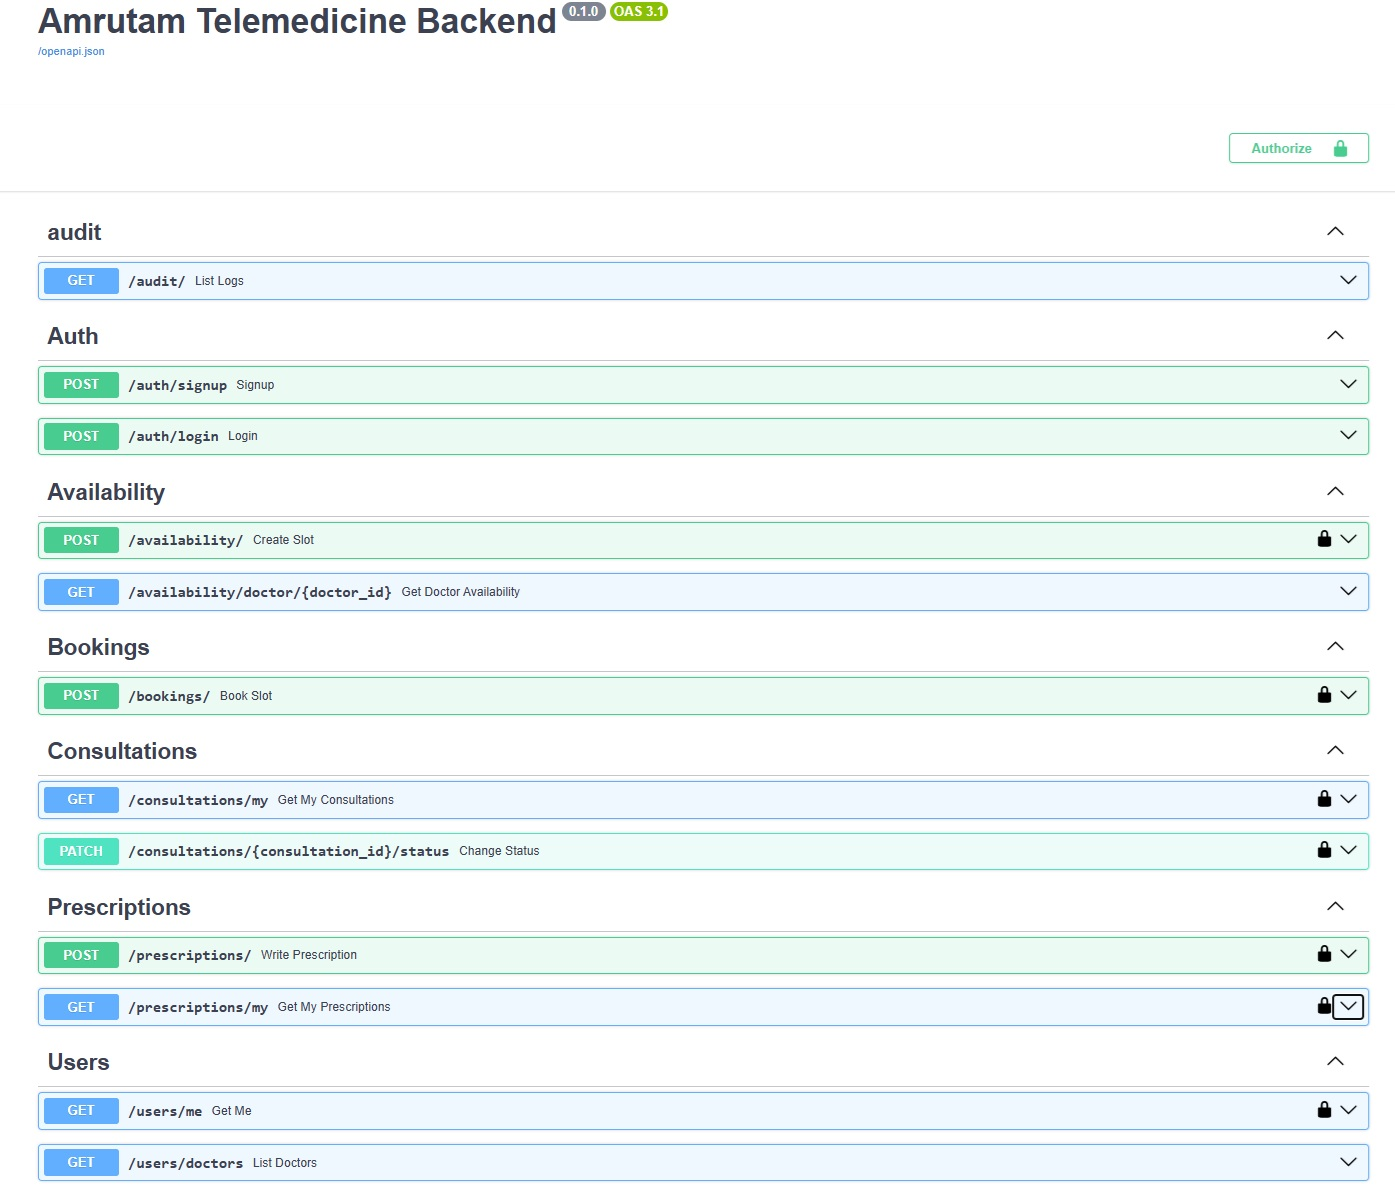
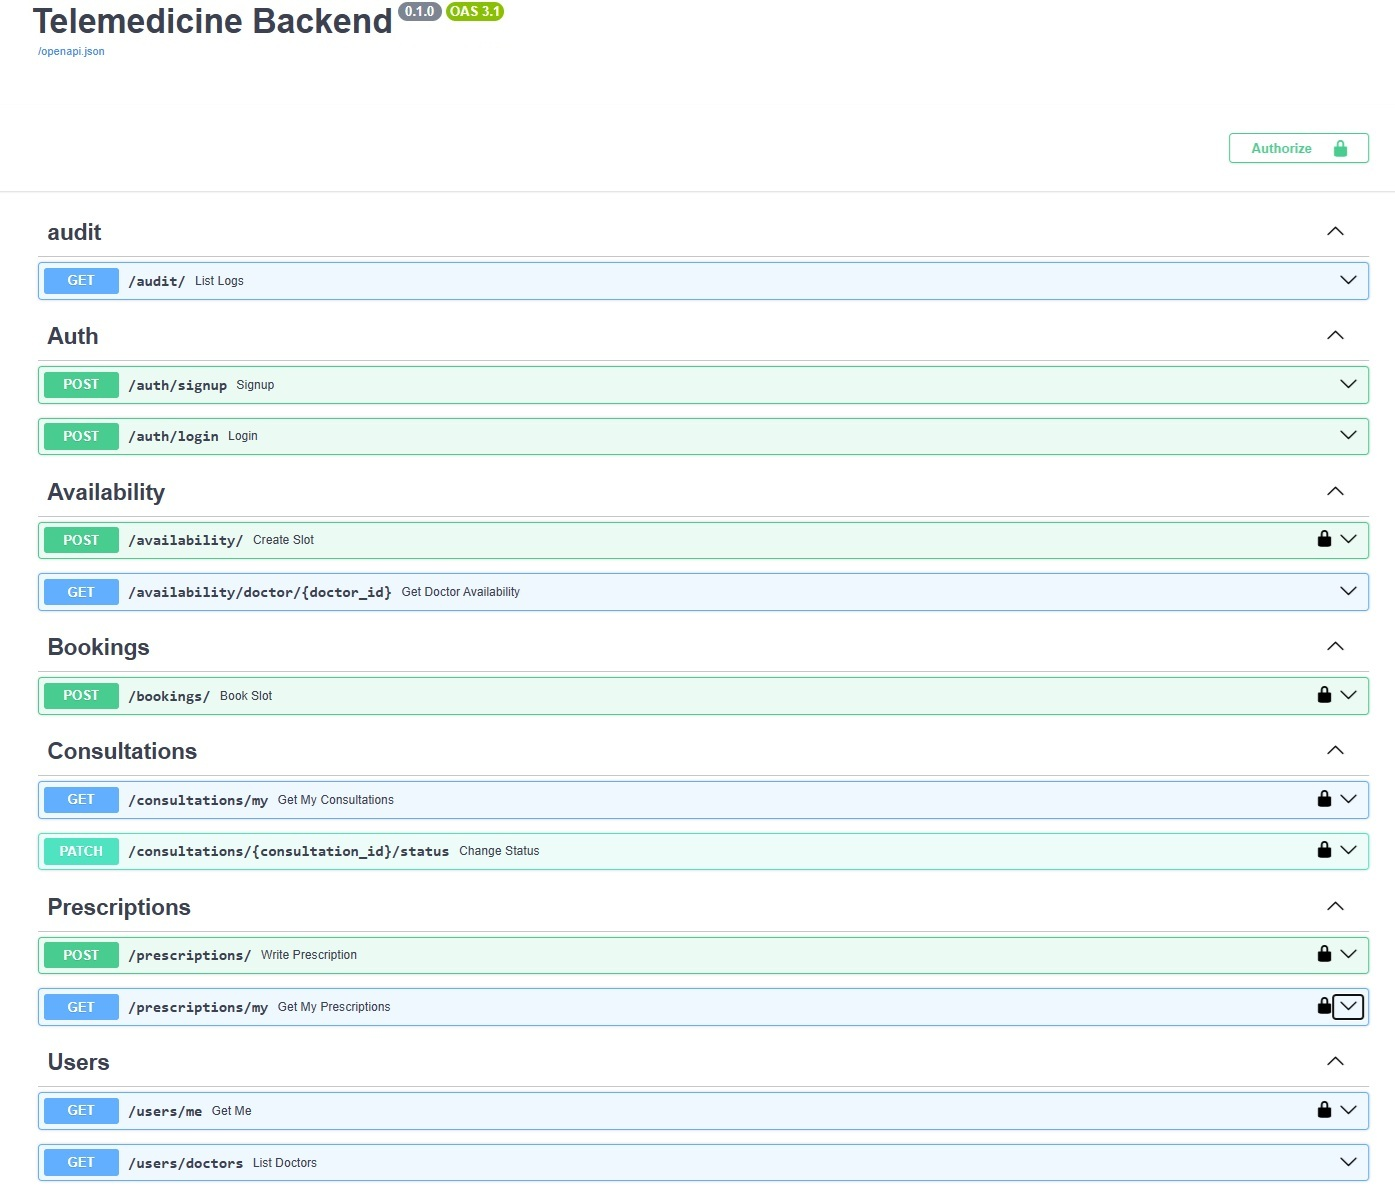
Update README and main app changes

Changed region(s): [[0.0308, 0.0, 0.4932, 0.031]]

diff --git a/app/main.py b/app/main.py
@@ -13,7 +13,7 @@ from app.modules.consultations.routers import router as consultations_router
 from app.modules.prescriptions.routers import router as prescription_router
 
 
-app = FastAPI(title="Amrutam Telemedicine Backend")
+app = FastAPI(title="Telemedicine Backend")
 
 
 # Create tables on startup
